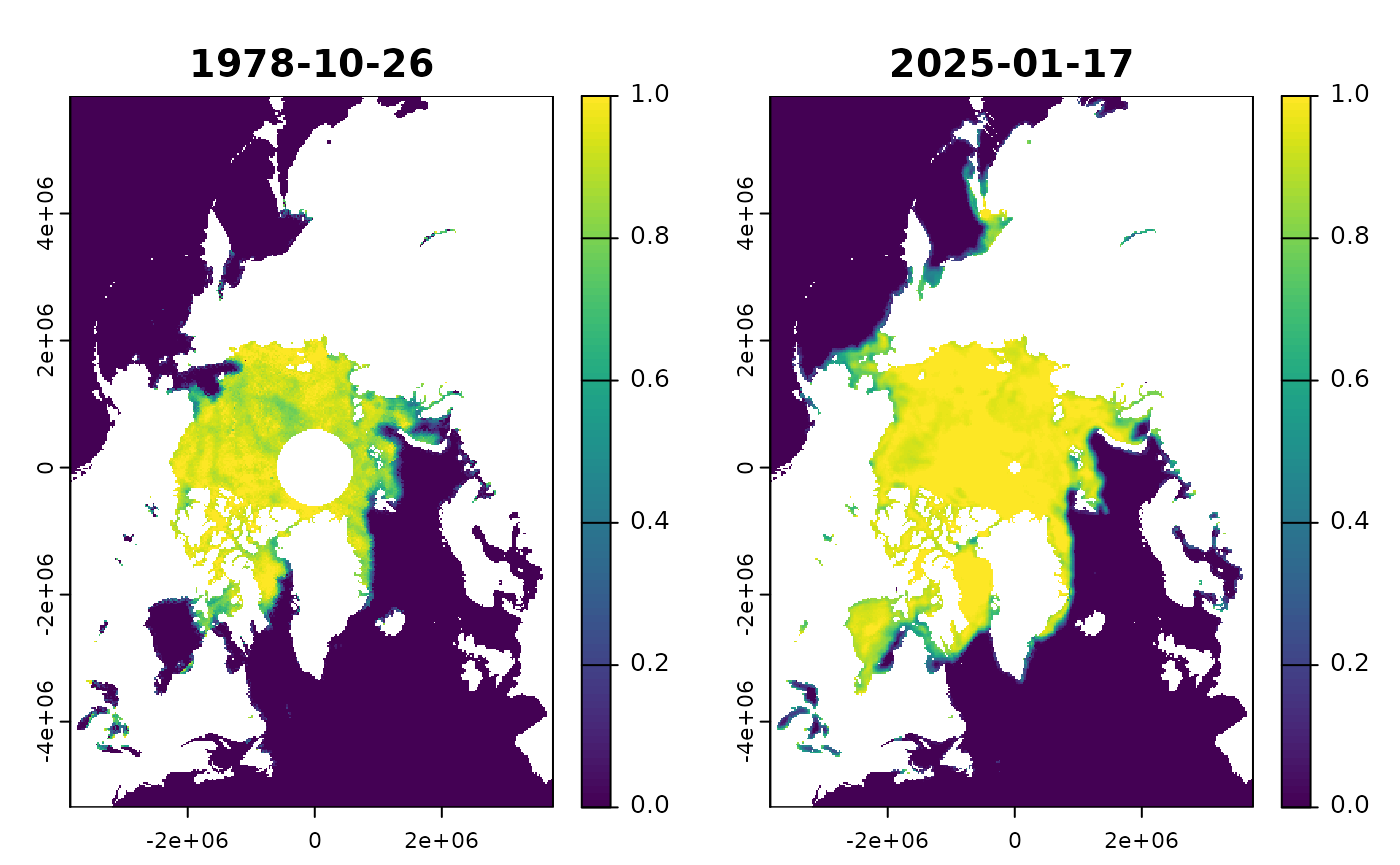
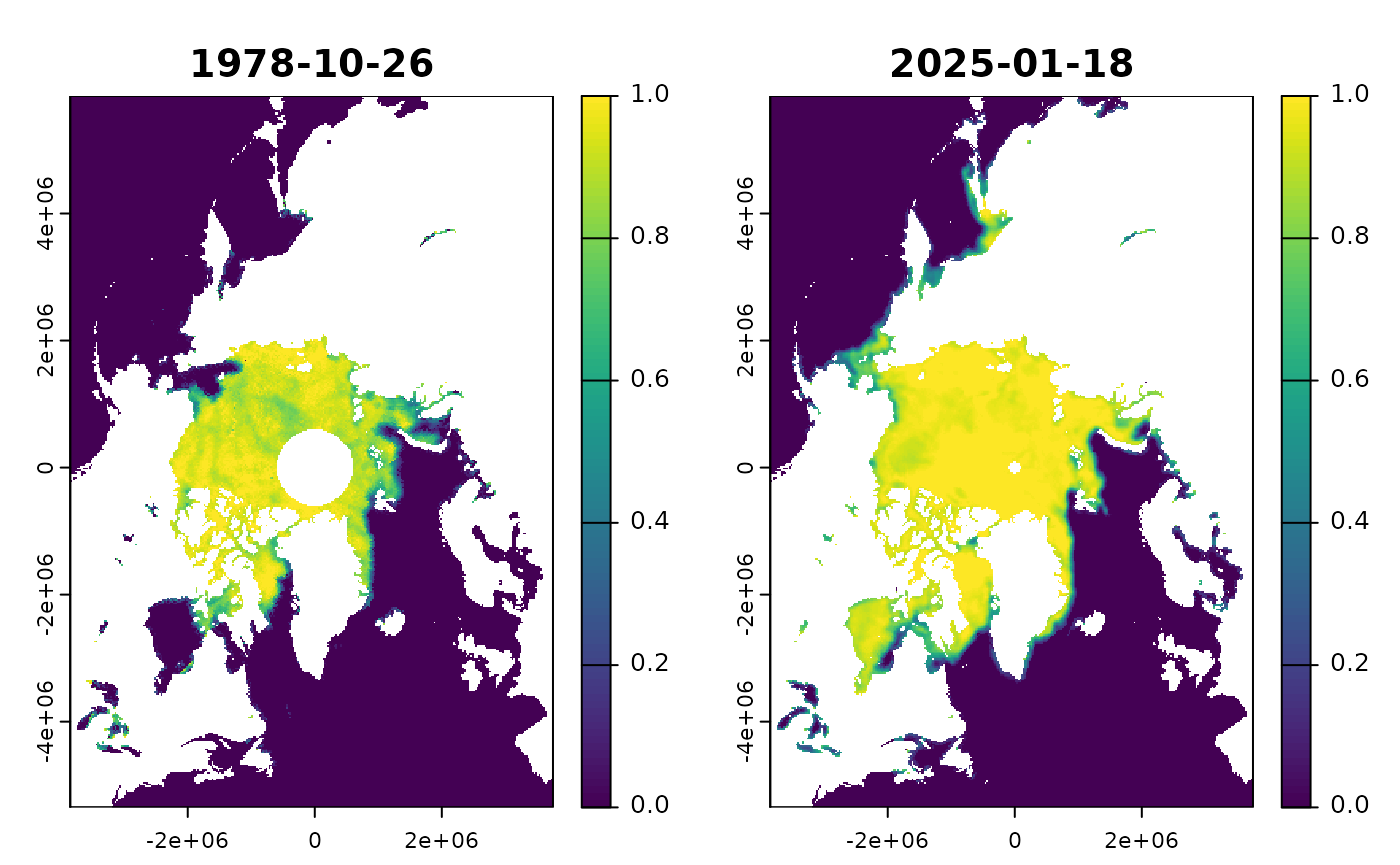
Deploying to gh-pages from @ mdsumner/sooty.watch@501e9f09278984d0c46638ced37482917cf369a6 🚀

diff --git a/articles/sooty-watch.html b/articles/sooty-watch.html
@@ -84,9 +84,9 @@
 <span><span class="co">#&gt; <span style="color: #949494;"># A tibble: 7 × 4</span></span></span>
 <span><span class="co">#&gt;   Dataset                        mindate             maxdate                 n</span></span>
 <span><span class="co">#&gt;   <span style="color: #949494; font-style: italic;">&lt;chr&gt;</span>                          <span style="color: #949494; font-style: italic;">&lt;dttm&gt;</span>              <span style="color: #949494; font-style: italic;">&lt;dttm&gt;</span>              <span style="color: #949494; font-style: italic;">&lt;int&gt;</span></span></span>
-<span><span class="co">#&gt; <span style="color: #BCBCBC;">1</span> NSIDC_SEAICE_PS_N25km          1978-10-26 <span style="color: #949494;">00:00:00</span> 2025-01-17 <span style="color: #949494;">00:00:00</span> <span style="text-decoration: underline;">16</span>880</span></span>
-<span><span class="co">#&gt; <span style="color: #BCBCBC;">2</span> NSIDC_SEAICE_PS_S25km          1978-10-26 <span style="color: #949494;">00:00:00</span> 2025-01-17 <span style="color: #949494;">00:00:00</span> <span style="text-decoration: underline;">16</span>880</span></span>
-<span><span class="co">#&gt; <span style="color: #BCBCBC;">3</span> antarctica-amsr2-asi-s3125-tif 2012-07-02 <span style="color: #949494;">00:00:00</span> 2025-01-17 <span style="color: #949494;">00:00:00</span>  <span style="text-decoration: underline;">4</span>572</span></span>
+<span><span class="co">#&gt; <span style="color: #BCBCBC;">1</span> NSIDC_SEAICE_PS_N25km          1978-10-26 <span style="color: #949494;">00:00:00</span> 2025-01-18 <span style="color: #949494;">00:00:00</span> <span style="text-decoration: underline;">16</span>881</span></span>
+<span><span class="co">#&gt; <span style="color: #BCBCBC;">2</span> NSIDC_SEAICE_PS_S25km          1978-10-26 <span style="color: #949494;">00:00:00</span> 2025-01-18 <span style="color: #949494;">00:00:00</span> <span style="text-decoration: underline;">16</span>881</span></span>
+<span><span class="co">#&gt; <span style="color: #BCBCBC;">3</span> antarctica-amsr2-asi-s3125-tif 2012-07-02 <span style="color: #949494;">00:00:00</span> 2025-01-18 <span style="color: #949494;">00:00:00</span>  <span style="text-decoration: underline;">4</span>573</span></span>
 <span><span class="co">#&gt; <span style="color: #BCBCBC;">4</span> oisst-avhrr-v02r01             1981-09-01 <span style="color: #949494;">00:00:00</span> 2025-01-17 <span style="color: #949494;">00:00:00</span> <span style="text-decoration: underline;">15</span>845</span></span>
 <span><span class="co">#&gt; <span style="color: #BCBCBC;">5</span> ghrsst-tif                     2002-06-01 <span style="color: #949494;">00:00:00</span> 2025-01-13 <span style="color: #949494;">00:00:00</span>  <span style="text-decoration: underline;">3</span>403</span></span>
 <span><span class="co">#&gt; <span style="color: #BCBCBC;">6</span> oisst-tif                      1981-09-01 <span style="color: #949494;">00:00:00</span> 2025-01-07 <span style="color: #949494;">00:00:00</span> <span style="text-decoration: underline;">15</span>835</span></span>
@@ -96,11 +96,11 @@
 <span><span class="co">#&gt; <span style="color: #949494;"># A tibble: 7 × 2</span></span></span>
 <span><span class="co">#&gt;   Bucket                                                n</span></span>
 <span><span class="co">#&gt;   <span style="color: #949494; font-style: italic;">&lt;chr&gt;</span>                                             <span style="color: #949494; font-style: italic;">&lt;int&gt;</span></span></span>
-<span><span class="co">#&gt; <span style="color: #BCBCBC;">1</span> idea-10.5067-mpyg15waa4wx                         <span style="text-decoration: underline;">33</span>760</span></span>
+<span><span class="co">#&gt; <span style="color: #BCBCBC;">1</span> idea-10.5067-mpyg15waa4wx                         <span style="text-decoration: underline;">33</span>762</span></span>
 <span><span class="co">#&gt; <span style="color: #BCBCBC;">2</span> idea-10.7289-v5sq8xb5                             <span style="text-decoration: underline;">15</span>845</span></span>
 <span><span class="co">#&gt; <span style="color: #BCBCBC;">3</span> idea-oisst                                        <span style="text-decoration: underline;">15</span>835</span></span>
 <span><span class="co">#&gt; <span style="color: #BCBCBC;">4</span> idea-sealevel-glo-phy-l4-rep-observations-008-047 <span style="text-decoration: underline;">11</span>208</span></span>
-<span><span class="co">#&gt; <span style="color: #BCBCBC;">5</span> idea-amsr2-asi-s3125                               <span style="text-decoration: underline;">4</span>572</span></span>
+<span><span class="co">#&gt; <span style="color: #BCBCBC;">5</span> idea-amsr2-asi-s3125                               <span style="text-decoration: underline;">4</span>573</span></span>
 <span><span class="co">#&gt; <span style="color: #BCBCBC;">6</span> idea-ghrsst                                        <span style="text-decoration: underline;">3</span>403</span></span>
 <span><span class="co">#&gt; <span style="color: #BCBCBC;">7</span> idea-sealevel-glo-phy-l4-nrt-008-046                330</span></span></code></pre></div>
 <p>For each dataset, let’s get the first and last and plot.</p>

diff --git a/reference/watch.html b/reference/watch.html
@@ -72,9 +72,9 @@
 <span class="r-out co"><span class="r-pr">#&gt;</span> <span style="color: #949494;"># A tibble: 7 × 4</span></span>
 <span class="r-out co"><span class="r-pr">#&gt;</span>   Dataset                        mindate             maxdate                 n</span>
 <span class="r-out co"><span class="r-pr">#&gt;</span>   <span style="color: #949494; font-style: italic;">&lt;chr&gt;</span>                          <span style="color: #949494; font-style: italic;">&lt;dttm&gt;</span>              <span style="color: #949494; font-style: italic;">&lt;dttm&gt;</span>              <span style="color: #949494; font-style: italic;">&lt;int&gt;</span></span>
-<span class="r-out co"><span class="r-pr">#&gt;</span> <span style="color: #BCBCBC;">1</span> NSIDC_SEAICE_PS_N25km          1978-10-26 <span style="color: #949494;">00:00:00</span> 2025-01-17 <span style="color: #949494;">00:00:00</span> <span style="text-decoration: underline;">16</span>880</span>
-<span class="r-out co"><span class="r-pr">#&gt;</span> <span style="color: #BCBCBC;">2</span> NSIDC_SEAICE_PS_S25km          1978-10-26 <span style="color: #949494;">00:00:00</span> 2025-01-17 <span style="color: #949494;">00:00:00</span> <span style="text-decoration: underline;">16</span>880</span>
-<span class="r-out co"><span class="r-pr">#&gt;</span> <span style="color: #BCBCBC;">3</span> antarctica-amsr2-asi-s3125-tif 2012-07-02 <span style="color: #949494;">00:00:00</span> 2025-01-17 <span style="color: #949494;">00:00:00</span>  <span style="text-decoration: underline;">4</span>572</span>
+<span class="r-out co"><span class="r-pr">#&gt;</span> <span style="color: #BCBCBC;">1</span> NSIDC_SEAICE_PS_N25km          1978-10-26 <span style="color: #949494;">00:00:00</span> 2025-01-18 <span style="color: #949494;">00:00:00</span> <span style="text-decoration: underline;">16</span>881</span>
+<span class="r-out co"><span class="r-pr">#&gt;</span> <span style="color: #BCBCBC;">2</span> NSIDC_SEAICE_PS_S25km          1978-10-26 <span style="color: #949494;">00:00:00</span> 2025-01-18 <span style="color: #949494;">00:00:00</span> <span style="text-decoration: underline;">16</span>881</span>
+<span class="r-out co"><span class="r-pr">#&gt;</span> <span style="color: #BCBCBC;">3</span> antarctica-amsr2-asi-s3125-tif 2012-07-02 <span style="color: #949494;">00:00:00</span> 2025-01-18 <span style="color: #949494;">00:00:00</span>  <span style="text-decoration: underline;">4</span>573</span>
 <span class="r-out co"><span class="r-pr">#&gt;</span> <span style="color: #BCBCBC;">4</span> oisst-avhrr-v02r01             1981-09-01 <span style="color: #949494;">00:00:00</span> 2025-01-17 <span style="color: #949494;">00:00:00</span> <span style="text-decoration: underline;">15</span>845</span>
 <span class="r-out co"><span class="r-pr">#&gt;</span> <span style="color: #BCBCBC;">5</span> ghrsst-tif                     2002-06-01 <span style="color: #949494;">00:00:00</span> 2025-01-13 <span style="color: #949494;">00:00:00</span>  <span style="text-decoration: underline;">3</span>403</span>
 <span class="r-out co"><span class="r-pr">#&gt;</span> <span style="color: #BCBCBC;">6</span> oisst-tif                      1981-09-01 <span style="color: #949494;">00:00:00</span> 2025-01-07 <span style="color: #949494;">00:00:00</span> <span style="text-decoration: underline;">15</span>835</span>
